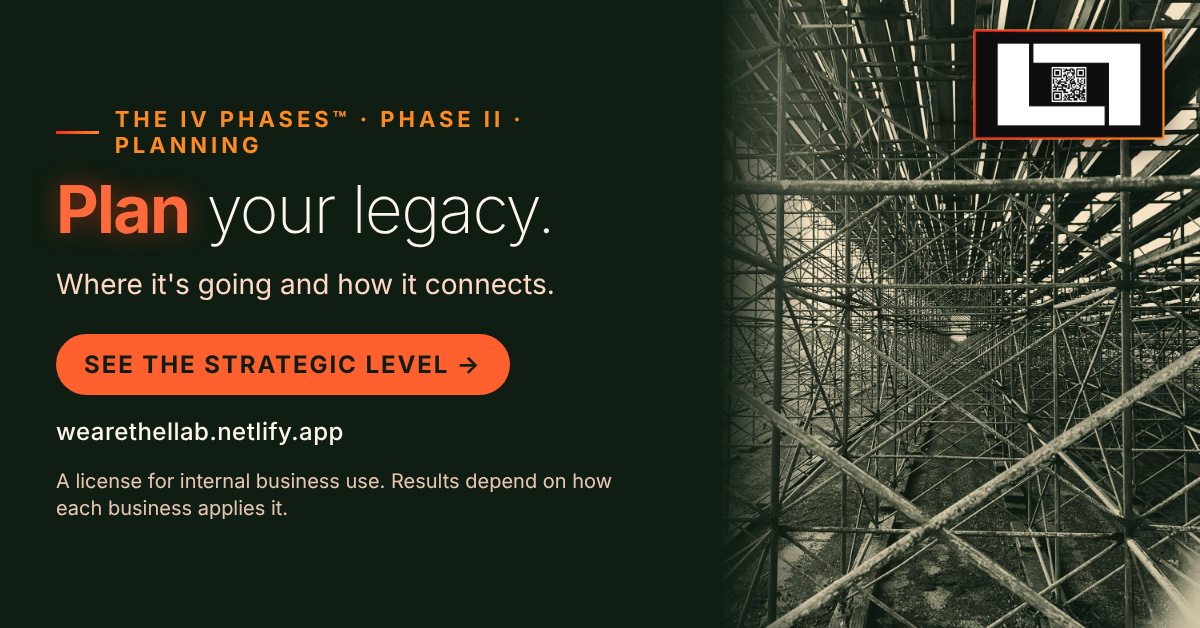
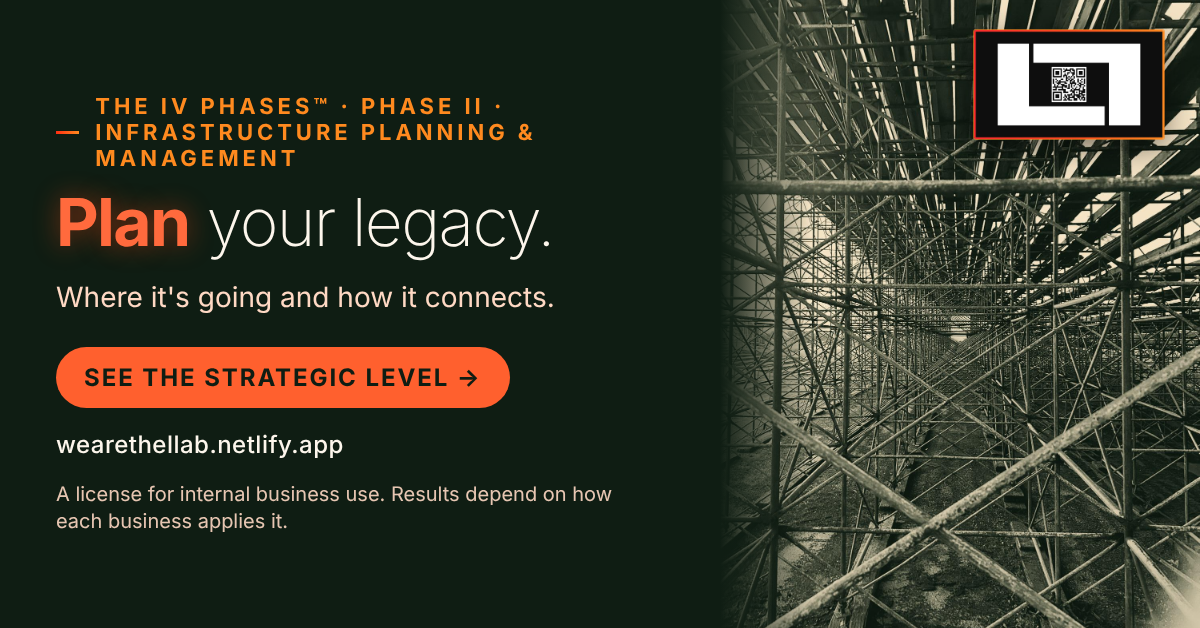
Use the official IV Phases names everywhere (#54)
* Nav: Home, Partnerships, .LLab on top; Founders Organization at bottom of More; add ™ marks

Claude-Session: https://claude.ai/code/session_01CJiPCp3b9wqRwJ31gambQ1

* Phase names: use the official four names (Foundations, Infrastructure Planning & Management, Internal Operating Systems, Preservation) in strips, ads, docs

Claude-Session: https://claude.ai/code/session_01CJiPCp3b9wqRwJ31gambQ1

---------

Changed region(s): [[0.0308, 0.3025, 0.4625, 0.7261], [0.0308, 0.1513, 0.4625, 0.3933], [0.0308, 0.7564, 0.5242, 0.8471]]

diff --git a/pages/products.html b/pages/products.html
@@ -169,7 +169,7 @@
       <div class="fits-text">
         <p class="eyebrow">Where this fits</p>
         <p class="fits-line">People</p>
-        <ol class="fits-phases"><li class="on"><b>I</b><span>Define</span></li><li class="on"><b>II</b><span>Plan</span></li><li class="on"><b>III</b><span>Live</span></li><li class="on"><b>IV</b><span>Pass it on</span></li></ol>
+        <ol class="fits-phases"><li class="on"><b>I</b><span>Foundations</span></li><li class="on"><b>II</b><span>Infrastructure Planning &amp; Management</span></li><li class="on"><b>III</b><span>Internal Operating Systems</span></li><li class="on"><b>IV</b><span>Preservation</span></li></ol>
         <a href="think.html#model" class="pill">See the full model <span class="arrow">→</span></a>
       </div>
     </div>
@@ -231,8 +231,8 @@
       <div class="flow-row" style="margin-top:1.5rem;"><span class="flow-node">1 · Start free</span><span class="flow-arrow">→</span><span class="flow-node">2 · Buy the one you need</span><span class="flow-arrow">→</span><span class="flow-node">3 · Unlock all 9 with Membership</span></div>
       <nav class="phase-jump" aria-label="Jump to a phase">
         <a href="#phase-1-products">I · Foundations</a>
-        <a href="#phase-2-products">II · Infrastructure Planning</a>
-        <a href="#phase-3-products">III · Operating Systems</a>
+        <a href="#phase-2-products">II · Infrastructure Planning &amp; Management</a>
+        <a href="#phase-3-products">III · Internal Operating Systems</a>
         <a href="#phase-4-products">IV · Preservation</a>
       </nav>
       <div class="phase-product-group" id="phase-1-products">

diff --git a/pages/founders.html b/pages/founders.html
@@ -174,7 +174,7 @@
       <div class="fits-text">
         <p class="eyebrow">Where this fits</p>
         <p class="fits-line">Communities · Nonprofits</p>
-        <ol class="fits-phases"><li class="on"><b>I</b><span>Define</span></li><li class="on"><b>II</b><span>Plan</span></li><li class="on"><b>III</b><span>Live</span></li><li class="on"><b>IV</b><span>Pass it on</span></li></ol>
+        <ol class="fits-phases"><li class="on"><b>I</b><span>Foundations</span></li><li class="on"><b>II</b><span>Infrastructure Planning &amp; Management</span></li><li class="on"><b>III</b><span>Internal Operating Systems</span></li><li class="on"><b>IV</b><span>Preservation</span></li></ol>
         <a href="think.html#model" class="pill">See the full model <span class="arrow">→</span></a>
       </div>
     </div>

diff --git a/pages/partnership.html b/pages/partnership.html
@@ -193,7 +193,7 @@
       <div class="fits-text">
         <p class="eyebrow">Where this fits</p>
         <p class="fits-line">Businesses · Capital</p>
-        <ol class="fits-phases"><li class="on"><b>I</b><span>Define</span></li><li class="on"><b>II</b><span>Plan</span></li><li class="on"><b>III</b><span>Live</span></li><li class="on"><b>IV</b><span>Pass it on</span></li></ol>
+        <ol class="fits-phases"><li class="on"><b>I</b><span>Foundations</span></li><li class="on"><b>II</b><span>Infrastructure Planning &amp; Management</span></li><li class="on"><b>III</b><span>Internal Operating Systems</span></li><li class="on"><b>IV</b><span>Preservation</span></li></ol>
         <a href="think.html#model" class="pill">See the full model <span class="arrow">→</span></a>
       </div>
     </div>

diff --git a/pages/creator.html b/pages/creator.html
@@ -180,7 +180,7 @@
       <div class="fits-text">
         <p class="eyebrow">Where this fits</p>
         <p class="fits-line">Creators</p>
-        <ol class="fits-phases"><li class="on"><b>I</b><span>Define</span></li><li class="on"><b>II</b><span>Plan</span></li><li class="on"><b>III</b><span>Live</span></li><li class="on"><b>IV</b><span>Pass it on</span></li></ol>
+        <ol class="fits-phases"><li class="on"><b>I</b><span>Foundations</span></li><li class="on"><b>II</b><span>Infrastructure Planning &amp; Management</span></li><li class="on"><b>III</b><span>Internal Operating Systems</span></li><li class="on"><b>IV</b><span>Preservation</span></li></ol>
         <a href="think.html#model" class="pill">See the full model <span class="arrow">→</span></a>
       </div>
     </div>

diff --git a/pages/community.html b/pages/community.html
@@ -169,7 +169,7 @@
       <div class="fits-text">
         <p class="eyebrow">Where this fits</p>
         <p class="fits-line">Knowledge + IP</p>
-        <ol class="fits-phases"><li><b>I</b><span>Define</span></li><li class="on"><b>II</b><span>Plan</span></li><li><b>III</b><span>Live</span></li><li><b>IV</b><span>Pass it on</span></li></ol>
+        <ol class="fits-phases"><li><b>I</b><span>Foundations</span></li><li class="on"><b>II</b><span>Infrastructure Planning &amp; Management</span></li><li><b>III</b><span>Internal Operating Systems</span></li><li><b>IV</b><span>Preservation</span></li></ol>
         <a href="think.html#model" class="pill">See the full model <span class="arrow">→</span></a>
       </div>
     </div>

diff --git a/pages/journal-preview.html b/pages/journal-preview.html
@@ -179,7 +179,7 @@
       <div class="fits-text">
         <p class="eyebrow">Where this fits</p>
         <p class="fits-line">Knowledge + IP</p>
-        <ol class="fits-phases"><li><b>I</b><span>Define</span></li><li class="on"><b>II</b><span>Plan</span></li><li><b>III</b><span>Live</span></li><li><b>IV</b><span>Pass it on</span></li></ol>
+        <ol class="fits-phases"><li><b>I</b><span>Foundations</span></li><li class="on"><b>II</b><span>Infrastructure Planning &amp; Management</span></li><li><b>III</b><span>Internal Operating Systems</span></li><li><b>IV</b><span>Preservation</span></li></ol>
         <a href="think.html#model" class="pill">See the full model <span class="arrow">→</span></a>
       </div>
     </div>

diff --git a/pages/journal.html b/pages/journal.html
@@ -165,7 +165,7 @@
       <div class="fits-text">
         <p class="eyebrow">Where this fits</p>
         <p class="fits-line">Knowledge + IP</p>
-        <ol class="fits-phases"><li><b>I</b><span>Define</span></li><li class="on"><b>II</b><span>Plan</span></li><li><b>III</b><span>Live</span></li><li><b>IV</b><span>Pass it on</span></li></ol>
+        <ol class="fits-phases"><li><b>I</b><span>Foundations</span></li><li class="on"><b>II</b><span>Infrastructure Planning &amp; Management</span></li><li><b>III</b><span>Internal Operating Systems</span></li><li><b>IV</b><span>Preservation</span></li></ol>
         <a href="think.html#model" class="pill">See the full model <span class="arrow">→</span></a>
       </div>
     </div>

diff --git a/pages/impact.html b/pages/impact.html
@@ -164,7 +164,7 @@
       <div class="fits-text">
         <p class="eyebrow">Where this fits</p>
         <p class="fits-line">Nonprofits</p>
-        <ol class="fits-phases"><li><b>I</b><span>Define</span></li><li><b>II</b><span>Plan</span></li><li><b>III</b><span>Live</span></li><li class="on"><b>IV</b><span>Pass it on</span></li></ol>
+        <ol class="fits-phases"><li><b>I</b><span>Foundations</span></li><li><b>II</b><span>Infrastructure Planning &amp; Management</span></li><li><b>III</b><span>Internal Operating Systems</span></li><li class="on"><b>IV</b><span>Preservation</span></li></ol>
         <a href="think.html#model" class="pill">See the full model <span class="arrow">→</span></a>
       </div>
     </div>

diff --git a/pages/technology.html b/pages/technology.html
@@ -183,7 +183,7 @@
       <div class="fits-text">
         <p class="eyebrow">Where this fits</p>
         <p class="fits-line">Technology</p>
-        <ol class="fits-phases"><li><b>I</b><span>Define</span></li><li><b>II</b><span>Plan</span></li><li class="on"><b>III</b><span>Live</span></li><li><b>IV</b><span>Pass it on</span></li></ol>
+        <ol class="fits-phases"><li><b>I</b><span>Foundations</span></li><li><b>II</b><span>Infrastructure Planning &amp; Management</span></li><li class="on"><b>III</b><span>Internal Operating Systems</span></li><li><b>IV</b><span>Preservation</span></li></ol>
         <a href="think.html#model" class="pill">See the full model <span class="arrow">→</span></a>
       </div>
     </div>

diff --git a/pages/atelier.html b/pages/atelier.html
@@ -181,7 +181,7 @@
       <div class="fits-text">
         <p class="eyebrow">Where this fits</p>
         <p class="fits-line">Creators</p>
-        <ol class="fits-phases"><li><b>I</b><span>Define</span></li><li><b>II</b><span>Plan</span></li><li class="on"><b>III</b><span>Live</span></li><li><b>IV</b><span>Pass it on</span></li></ol>
+        <ol class="fits-phases"><li><b>I</b><span>Foundations</span></li><li><b>II</b><span>Infrastructure Planning &amp; Management</span></li><li class="on"><b>III</b><span>Internal Operating Systems</span></li><li><b>IV</b><span>Preservation</span></li></ol>
         <a href="think.html#model" class="pill">See the full model <span class="arrow">→</span></a>
       </div>
     </div>

diff --git a/sw.js b/sw.js
@@ -3,7 +3,7 @@
 // static assets (HTML/CSS/JS/images) and never touches anything that must
 // always be fresh: Netlify Functions (auth, entitlements, downloads),
 // /content/*.json (CMS-edited copy and pricing), or /admin.
-const CACHE_VERSION = 'collab-shell-v30';
+const CACHE_VERSION = 'collab-shell-v31';
 
 const SHELL_ASSETS = [
   '/pages/account.html',

diff --git a/docs/marketing-strategy.md b/docs/marketing-strategy.md
@@ -82,8 +82,8 @@ Real, unstaged photographs read as honest, and honesty is what a buyer spending 
 | Phase | Photograph | What it signals | Psychology and sociology |
 |---|---|---|---|
 | **I · Foundations** (Define) | Wood-slat booth, enamel AMERICAN sign, high table and stools | Identity, rootedness, a place people gather. The table and stools are the Partnership **seats**. | Place identity and in-group belonging for heartland and small-business owners. Concrete imagery is recalled better than abstract claims. |
-| **II · Planning** (Plan) | Steel scaffolding corridor | Structure going up before the building exists. | Makes an abstract service tangible. |
-| **III · Operating Systems** (Live) | Tailored jackets on a wood-paneled rack | Order, standards, fit: how things are kept every day. The luxury-retail feel. | Fluency and quality cues: ordered scenes signal competence. The "built around the person" line from the site reads as tailoring. |
+| **II · Infrastructure Planning & Management** (Plan) | Steel scaffolding corridor | Structure going up before the building exists. | Makes an abstract service tangible. |
+| **III · Internal Operating Systems** (Live) | Tailored jackets on a wood-paneled rack | Order, standards, fit: how things are kept every day. The luxury-retail feel. | Fluency and quality cues: ordered scenes signal competence. The "built around the person" line from the site reads as tailoring. |
 | **IV · Preservation** (Pass it on) | One railroad track to the horizon | The path is already laid and continues past you. | Symbolic immortality and generativity: the picture of "so it outlasts you". It carries the emotional close without death imagery. |
 
 **Where they run**
